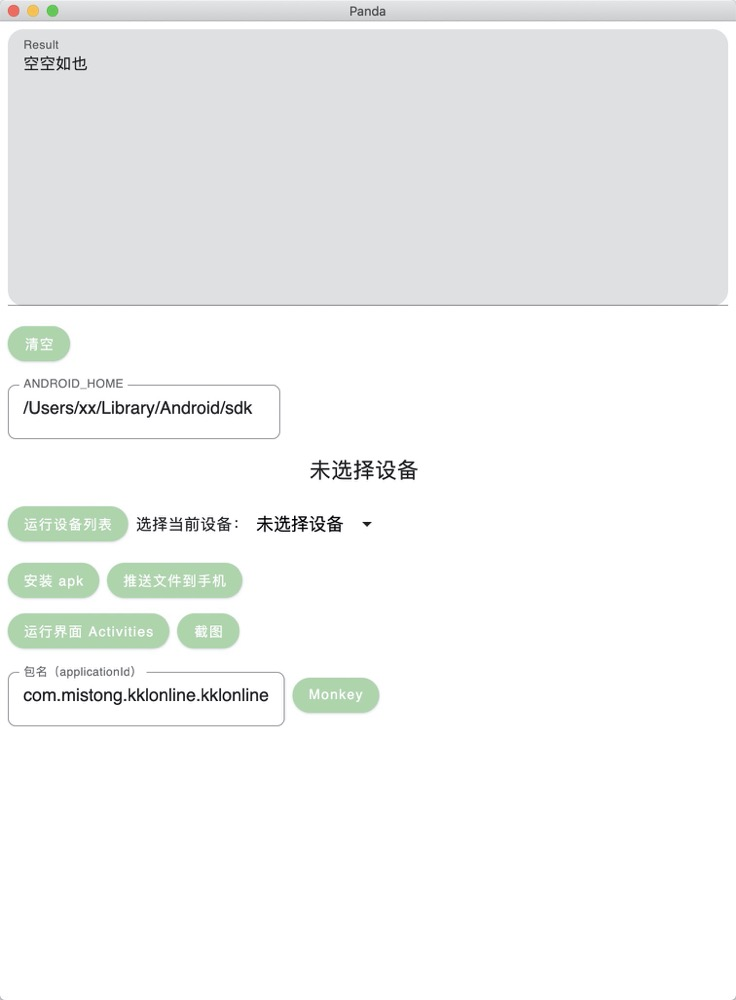
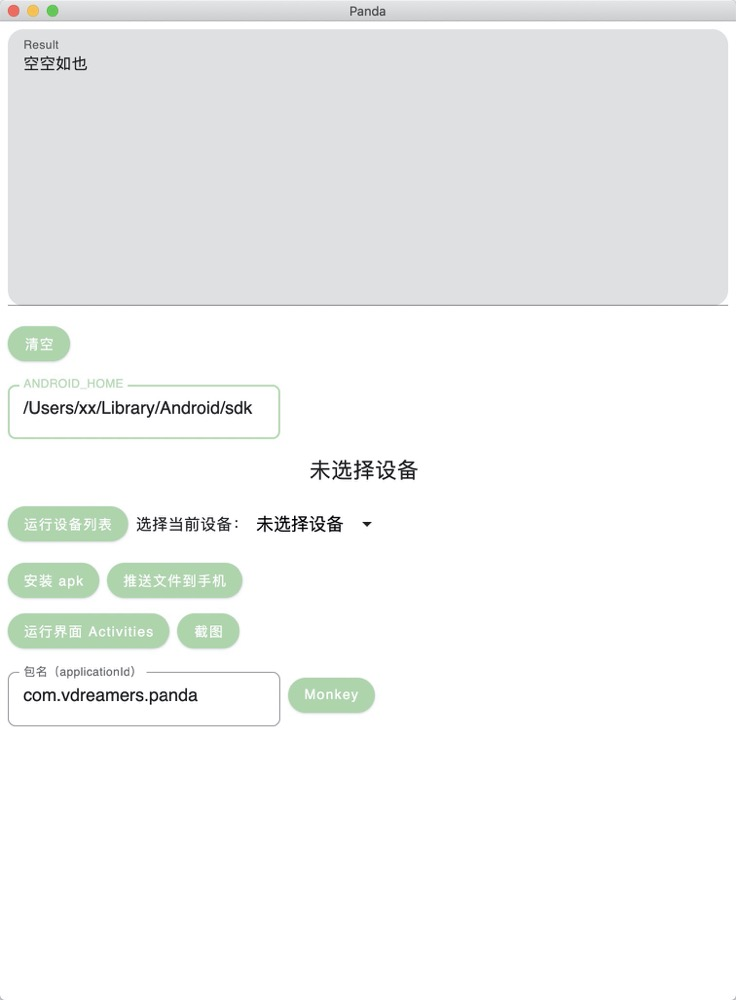
:sparkles: feat(common): update README.md

Changed region(s): [[0.0938, 0.682, 0.4375, 0.713], [0.0312, 0.372, 0.1875, 0.403], [0.4688, 0.682, 0.5312, 0.713]]

diff --git a/src/main/kotlin/constants/DefaultConstants.kt b/src/main/kotlin/constants/DefaultConstants.kt
@@ -2,7 +2,7 @@ package constants
 
 object DefaultConstants {
     const val DEFAULT_ANDROID_HOME = "/Users/xx/Library/Android/sdk"
-    const val DEFAULT_PACKAGE_NAME = "com.mistong.kklonline.kklonline"
+    const val DEFAULT_PACKAGE_NAME = "com.vdreamers.panda"
     const val DEFAULT_EMPTY = "空空如也"
     const val DEFAULT_UNSELECT_DEVICE = "未选择设备"
 }
